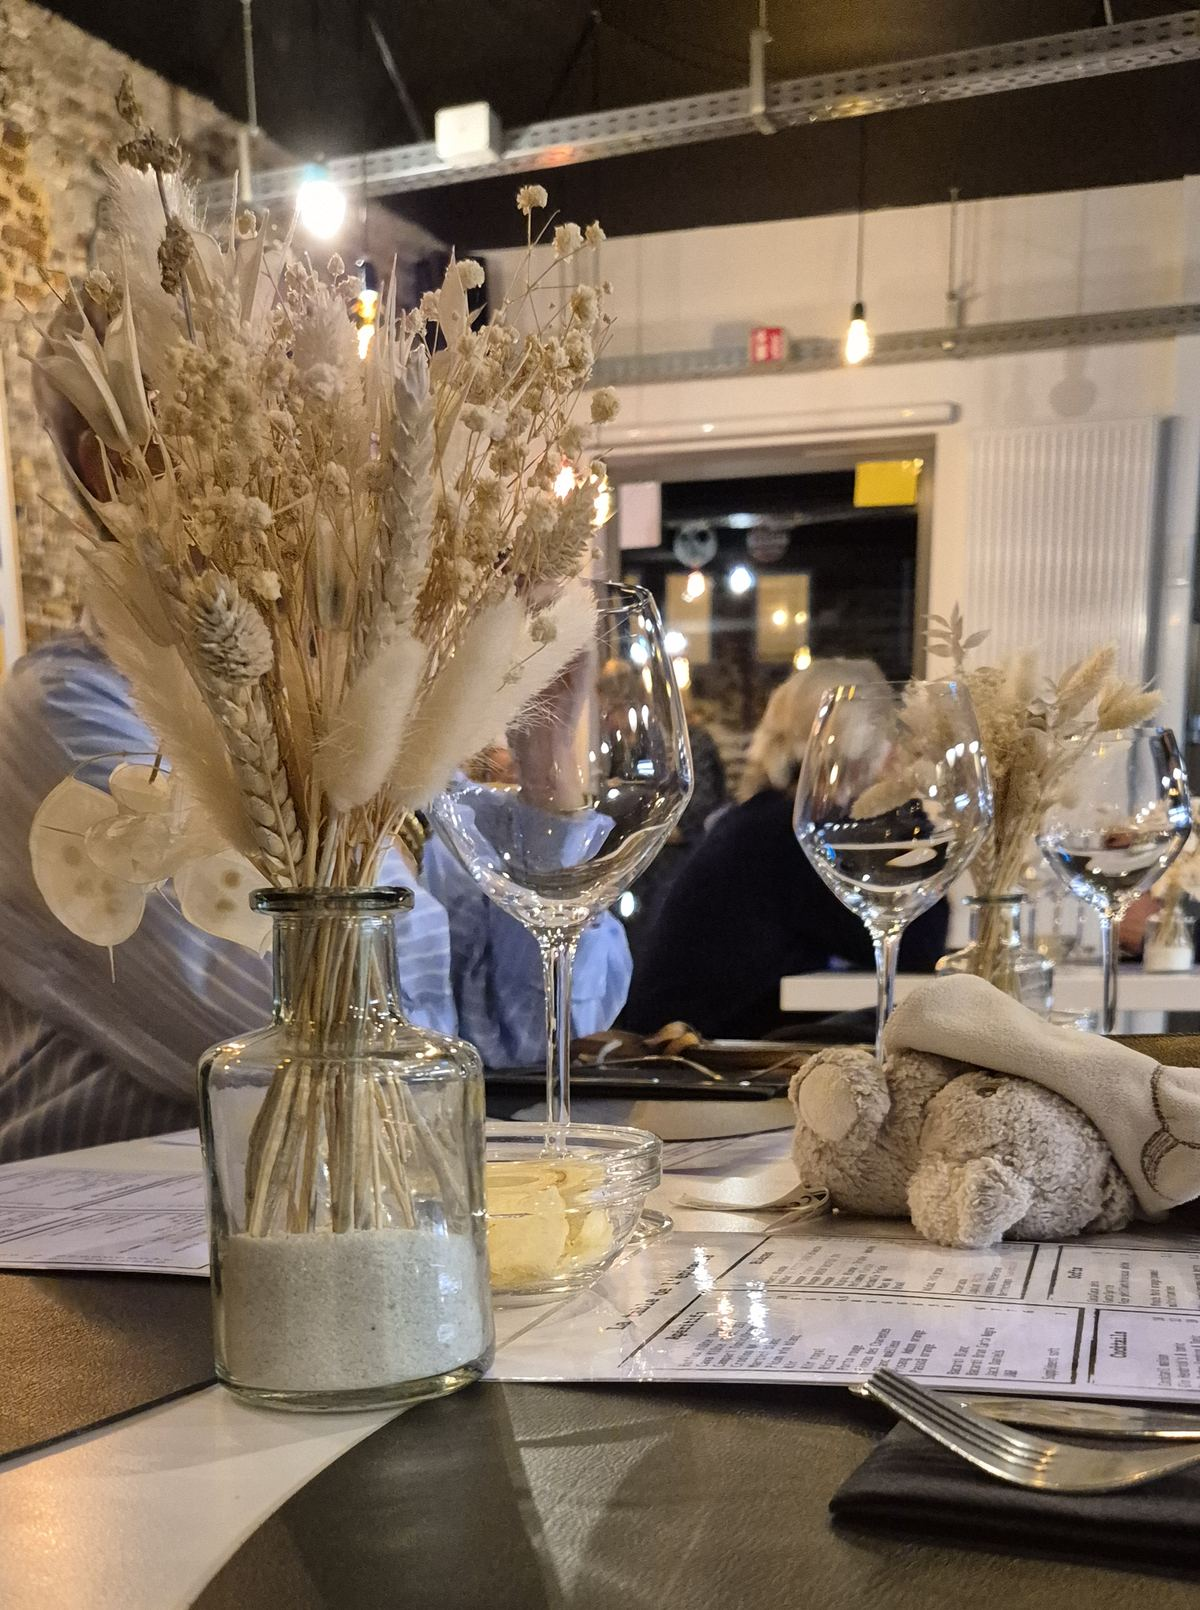
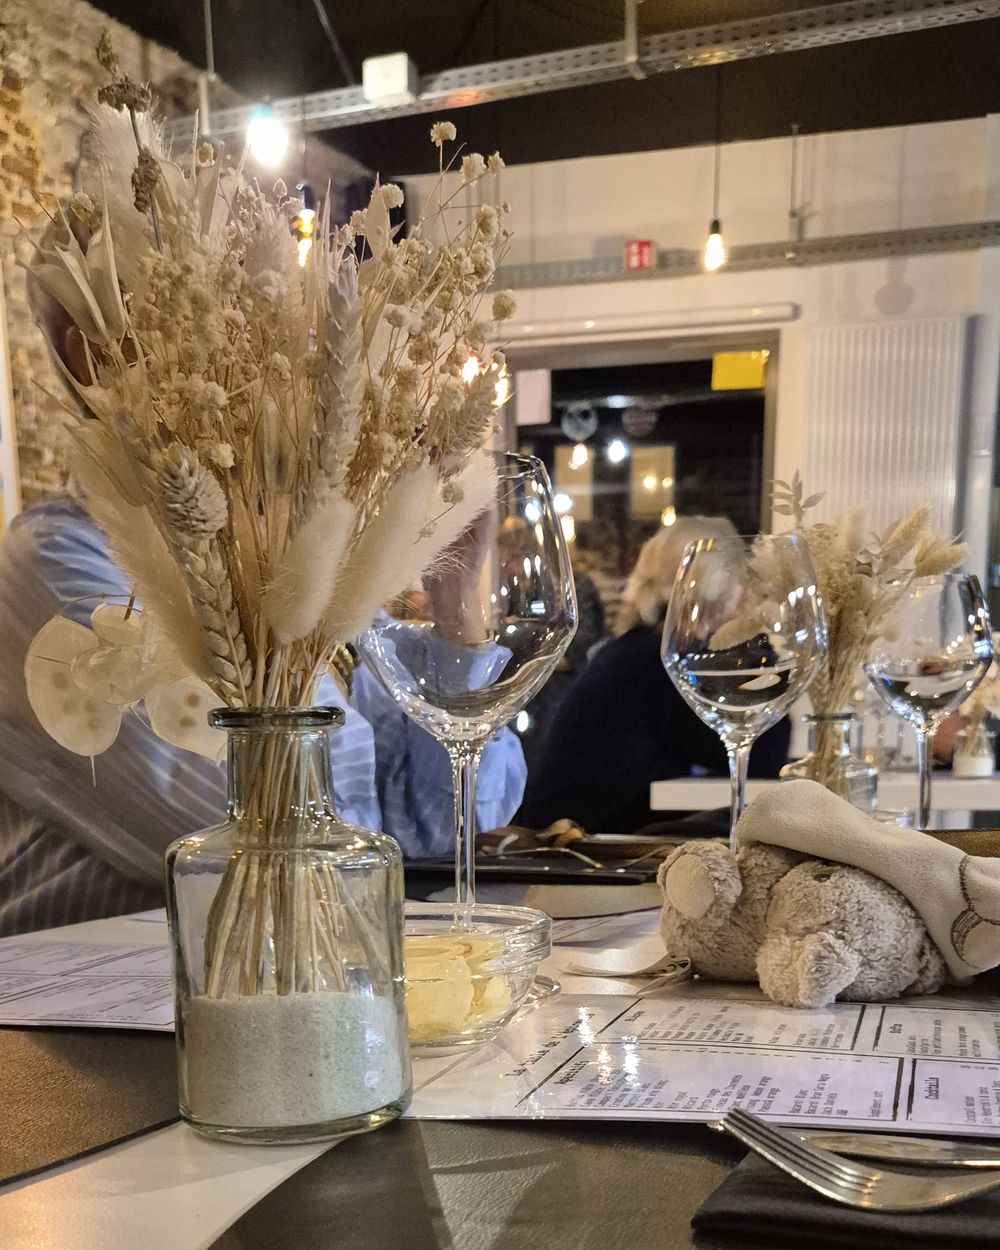
fix(lepicerie): meilleurs recadrages des photos
- Accueil : bouquet entier, cadre arrondi au lieu de l'arche qui le coupait
- Le lieu : gros plan briques + ampoules au lieu du plafond et des panneaux de secours

Claude-Session: https://claude.ai/code/session_014yHdDMxdrRriMeGbK6Tktz

diff --git a/lepicerie/css/style.css b/lepicerie/css/style.css
@@ -142,14 +142,14 @@ h1 em, h2 em { font-style: italic; color: var(--brick); }
 
 .hero-photo { margin: 0; position: relative; }
 .hero-photo img {
-  border-radius: 200px 200px var(--radius) var(--radius);
+  border-radius: 22px;
   aspect-ratio: 4 / 5; object-fit: cover; width: 100%;
   box-shadow: 0 40px 80px -30px rgba(0, 0, 0, .8);
 }
 .hero-photo::before {
   content: ""; position: absolute; inset: -14px 14px 14px -14px;
   border: 1px solid rgba(224, 166, 74, .45);
-  border-radius: 210px 210px var(--radius) var(--radius);
+  border-radius: 26px;
   pointer-events: none;
 }
 
@@ -172,7 +172,7 @@ h1 em, h2 em { font-style: italic; color: var(--brick); }
 
 /* ---------- Le lieu ---------- */
 .lieu { background: var(--cream); }
-.lieu-grid { display: grid; grid-template-columns: 1fr 1.15fr; gap: clamp(32px, 6vw, 80px); align-items: center; }
+.lieu-grid { display: grid; grid-template-columns: 1.1fr 1fr; gap: clamp(32px, 6vw, 80px); align-items: center; }
 .lieu h2 { font-size: clamp(2rem, 4.5vw, 3.2rem); }
 .lieu-text p { color: var(--ink-soft); }
 .features { list-style: none; padding: 0; margin: 1.6rem 0 0; display: grid; gap: .6rem; }
@@ -180,7 +180,7 @@ h1 em, h2 em { font-style: italic; color: var(--brick); }
 .features .dot { width: 9px; height: 9px; border-radius: 50%; background: var(--amber); box-shadow: 0 0 0 4px rgba(224, 166, 74, .2); flex: none; }
 
 .lieu-photo { margin: 0; }
-.lieu-photo img { border-radius: var(--radius); box-shadow: var(--shadow); width: 100%; aspect-ratio: 5 / 3.4; object-fit: cover; }
+.lieu-photo img { border-radius: var(--radius); box-shadow: var(--shadow); width: 100%; aspect-ratio: 940 / 730; object-fit: cover; }
 .lieu-photo figcaption { font-family: var(--font-chalk); font-size: 1.4rem; color: var(--muted); margin-top: .6rem; text-align: right; }
 
 /* ---------- Ardoise ---------- */

diff --git a/lepicerie/index.html b/lepicerie/index.html
@@ -76,7 +76,7 @@
           </p>
         </div>
         <figure class="hero-photo">
-          <img src="images/table.jpg" alt="Table dressée avec un bouquet de fleurs séchées, verres à vin et carte des boissons" width="1200" height="1610">
+          <img src="images/table.jpg" alt="Table dressée avec un bouquet de fleurs séchées, verres à vin et carte des boissons" width="1000" height="1250">
         </figure>
       </div>
     </section>
@@ -97,7 +97,7 @@
           </ul>
         </div>
         <figure class="lieu-photo">
-          <img src="images/salle.jpg" alt="La salle : ampoules à filament, mur de briques et vitrine de L'épicerie" width="1400" height="848" loading="lazy">
+          <img src="images/salle.jpg" alt="Mur de briques, tableau coloré et ampoules à filament dans la salle" width="940" height="730" loading="lazy">
           <figcaption>Les ampoules s'allument, la salle se remplit.</figcaption>
         </figure>
       </div>
